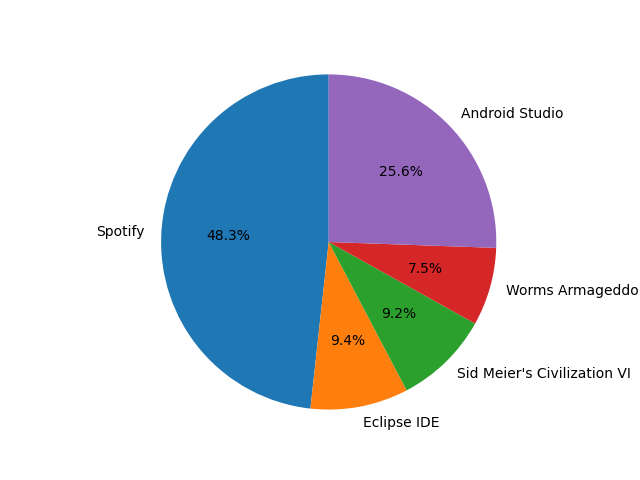
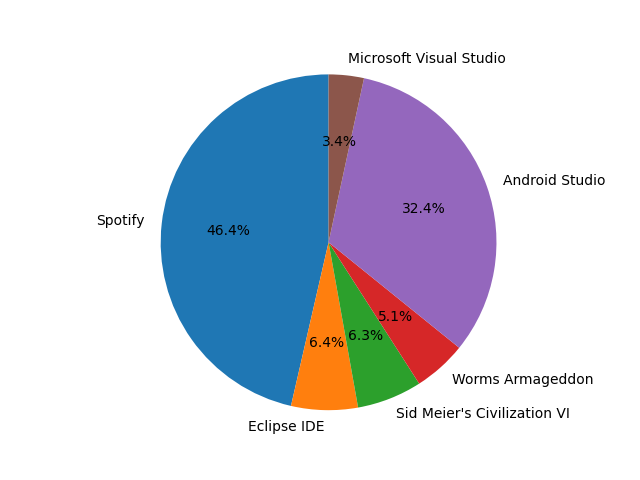
Improved !diagram command - now shows only items with 3% or more

diff --git a/main.py b/main.py
@@ -69,11 +69,24 @@ async def diagram(ctx, arg = None):  # Circlular diagram
     lab= []
     dat = []
 
+    # Count total
+    total = 0
+    for j in db[sender][7]['pie'].keys():
+      total+=db[sender][7]['pie'][j]
+
     # Extract data from the database
     for j in db[sender][7]['pie'].keys():
+      # Sometimes there are unfun 'None's just flying around
       if j == 'None':
         continue
-      dat.append(db[sender][7]['pie'][j])
+
+      currentData = db[sender][7]['pie'][j]
+
+      # We don't show anything less then 3 % 
+      if currentData/total <= 0.03:
+        continue
+
+      dat.append(currentData)
       lab.append(j)
     
     # Debug log it
